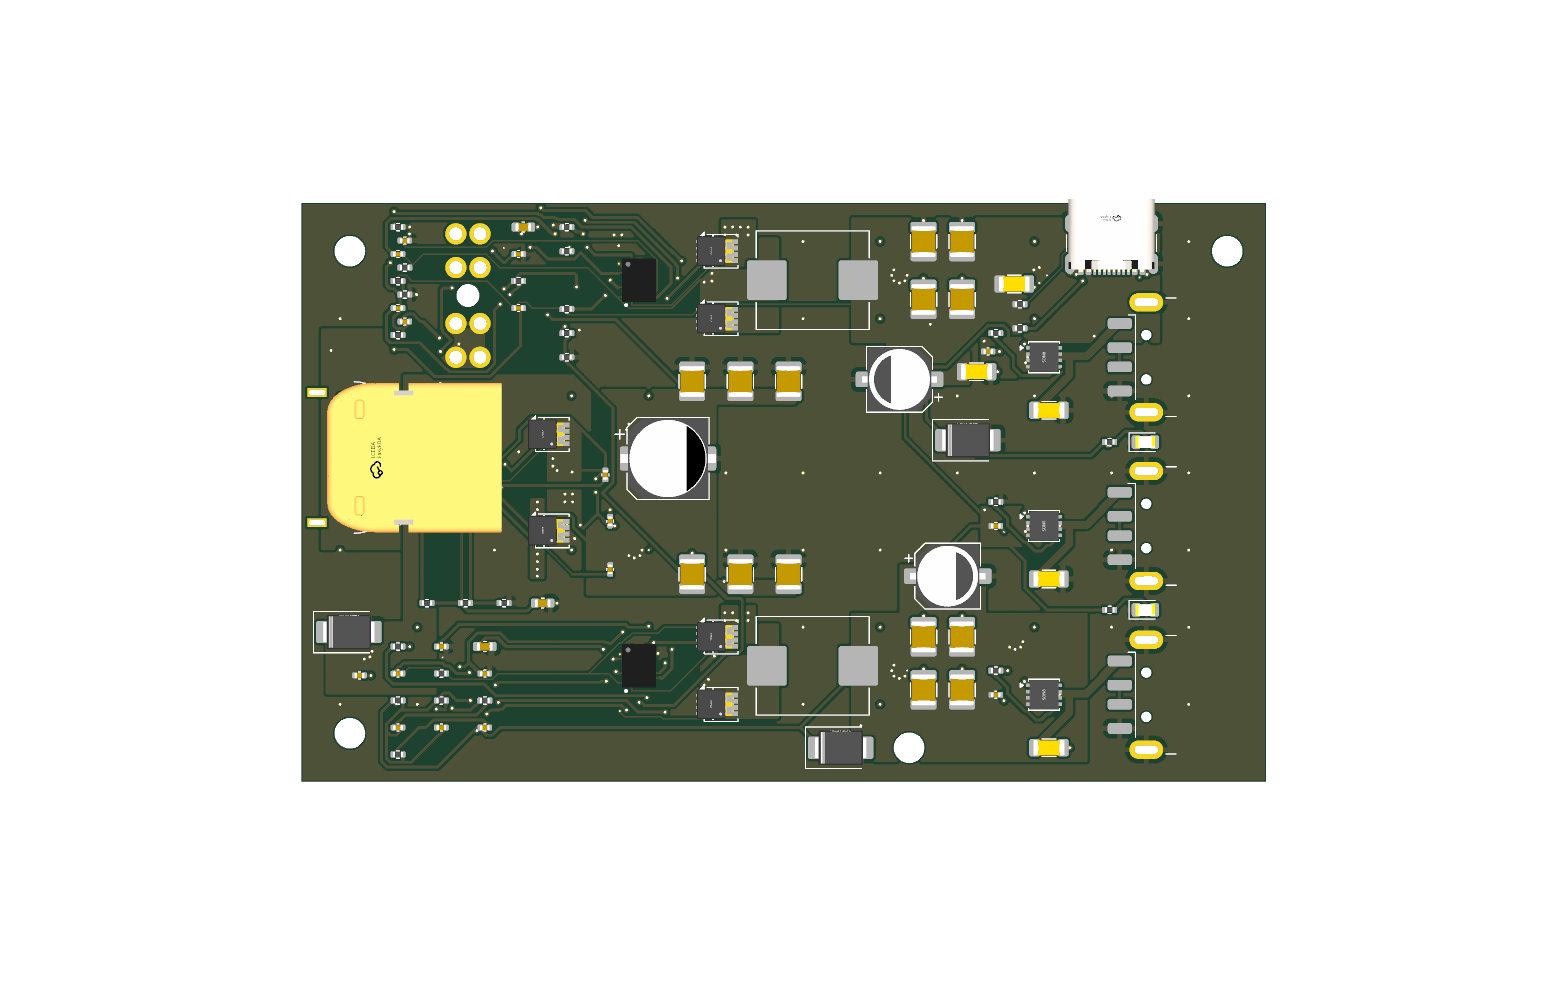
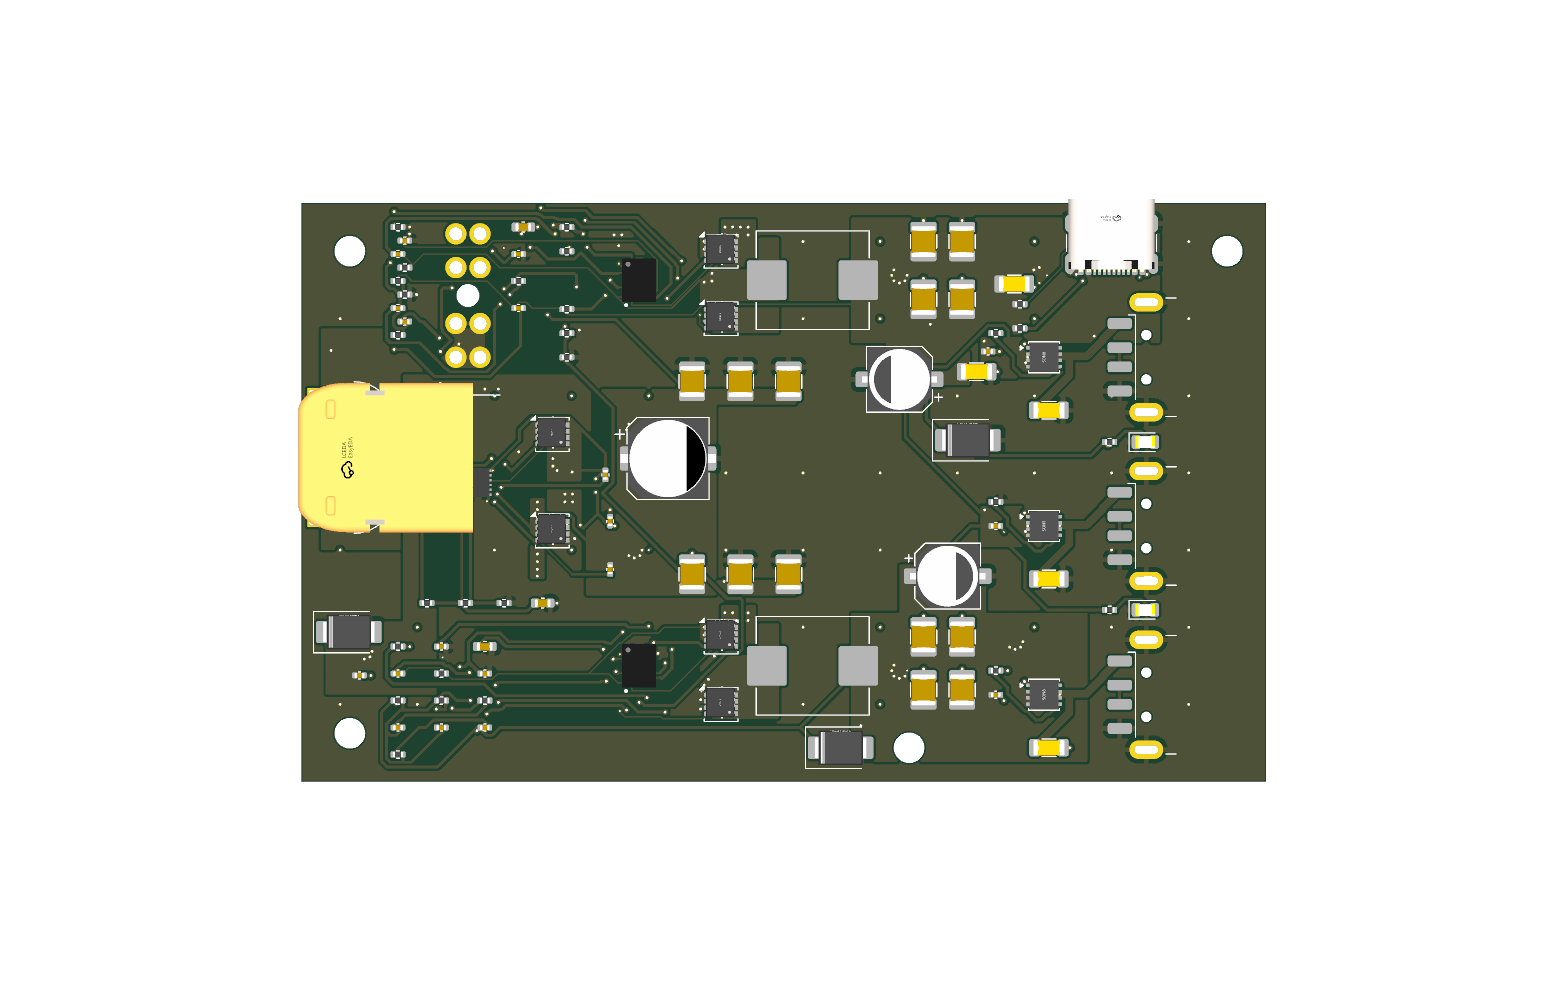
jlc_twin: common-pad-set centering - XT60 was rendered 7mm off its holes
Fit and mount centered each pad set on its OWN centroid; when one side names
extra pads (JLC's XT60 pegs, FET drain fingers) the transform inherits the
centroid difference and slides the model along the part axis. Centering both
sets on the COMMON pad numbers fixes it: J1 upgrades from adjudicated
PAD-MISMATCH to a 0.00mm fit (adjudication pruned - stale entries must not
mask regressions), nose now overhangs the west edge over its real holes.
v1.1 verification renders + twin report refreshed.

diff --git a/skills/jlcpcb-fab/scripts/jlc_twin.py b/skills/jlcpcb-fab/scripts/jlc_twin.py
@@ -170,7 +170,6 @@ def main():
             continue
         jfp = pcbnew.FootprintLoad(str(Path(fp_path).parent),
                                    Path(fp_path).stem)
-        jpads = centered(pads_of(jfp))
         for ref in [d.strip() for d in r["Designator"].split(",")]:
             fp = by_ref.get(ref)
             if fp is None:
@@ -179,15 +178,30 @@ def main():
             # compare in the footprint's own frame (undo board rotation)
             rot = fp.GetOrientationDegrees()
             fp.SetOrientationDegrees(0)
-            opads = centered(pads_of(fp))
-            _oca = centroid(pads_of(fp))
+            opads_raw = pads_of(fp)
+            fp.SetOrientationDegrees(rot)
+            # center BOTH sets on the COMMON numbered pads only: centering
+            # each on its own full set biases the fit/mount whenever one side
+            # names extra pads (XT60 pegs, FET drain fingers) - the XT60 model
+            # rendered 7mm off its holes before this (2026-07-16)
+            jraw = pads_of(jfp)
+            common = set(opads_raw) & set(jraw)
+            if not common:
+                findings.append((lcsc, ref, "PAD-MISMATCH", "no common pad numbers"))
+                criticals.append(ref)
+                continue
+            _oca = centroid({k: opads_raw[k] for k in common})
+            _jca = centroid({k: jraw[k] for k in common})
+            opads = {k: [(x - _oca[0], y - _oca[1]) for x, y in v]
+                     for k, v in opads_raw.items()}
+            jpads_c = {k: [(x - _jca[0], y - _jca[1]) for x, y in v]
+                       for k, v in jraw.items()}
             # FOOTPRINT-LOCAL centroid: model offsets are relative to the
             # footprint origin, not the board (absolute coords put every
             # model ~60mm off its part - found 2026-07-16)
             oc = (_oca[0] - fp.GetPosition().x / 1e6,
                   _oca[1] - fp.GetPosition().y / 1e6)
-            fp.SetOrientationDegrees(rot)
-            fits = best_fit(opads, jpads)
+            fits = best_fit(opads, jpads_c)
             good = [f for f in fits if f[0] <= FIT_TOL]
             if not good:
                 findings.append((lcsc, ref, "PAD-MISMATCH",
@@ -197,7 +211,7 @@ def main():
                 # render is exactly where a human adjudicates these
                 nm = [x for x in fits if not x[1]]
                 if nm:
-                    twin[ref] = (jfp, nm[0][2], oc)
+                    twin[ref] = (jfp, nm[0][2], oc, _jca)
                 continue
             e, mir, ang = good[0]
             if mir:
@@ -217,17 +231,17 @@ def main():
             findings.append((lcsc, ref, status,
                              f"fit={e:.2f}mm jlc_offset={ang} db={db_off}"
                              + (f" -> add: {fpname},{ang}" if status != "OK" else "")))
-            twin[ref] = (jfp, ang, oc)
+            twin[ref] = (jfp, ang, oc, _jca)
 
     # ---- twin render: JLC models mounted on OUR board
     if not args.no_render and twin:
         tb = pcbnew.LoadBoard(args.board)
-        for ref, (jfp, ang, oc) in twin.items():
+        for ref, (jfp, ang, oc, jc_common) in twin.items():
             fp = tb.FindFootprintByReference(ref)
             jmodels = list(jfp.Models())
             if not fp or not jmodels:
                 continue
-            jc = centroid(pads_of(jfp))
+            jc = jc_common  # common-pad centroid captured at fit time
             fp.Models().clear()
             c, sn = math.cos(math.radians(ang)), math.sin(math.radians(ang))
             for jm in jmodels:

diff --git a/skills/jlcpcb-fab/SKILL.md b/skills/jlcpcb-fab/SKILL.md
@@ -250,8 +250,11 @@ python3(pcbnew) scripts/jlc_twin.py BOARD bom_jlc.csv OUTDIR \
    local substitute for JLC's end-of-order preview. Adjudicated parts are
    mounted at their best non-mirrored fit precisely so a human can eyeball
    them. Transform gotchas encoded 2026-07-16: model offsets are
-   FOOTPRINT-LOCAL mm (absolute coords put every body ~60mm off) and the
-   3D frame is y-UP while board coords are y-down.
+   FOOTPRINT-LOCAL mm (absolute coords put every body ~60mm off); the
+   3D frame is y-UP while board coords are y-down; and the fit/mount must
+   center on the COMMON pad set only - own-set centroids slide the model
+   along the part axis whenever one side names extra pads (an XT60 rendered
+   7mm off its holes, nose not overhanging the board edge).
 
 Stock + selection gates recap (same stage): every assembled BOM line carries
 an explicit LCSC code (bom_seed fails on unmapped/TBD - never rely on JLC
